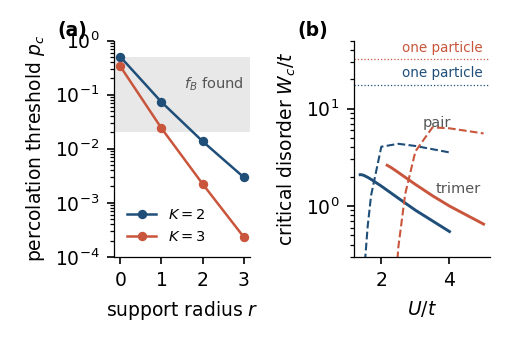
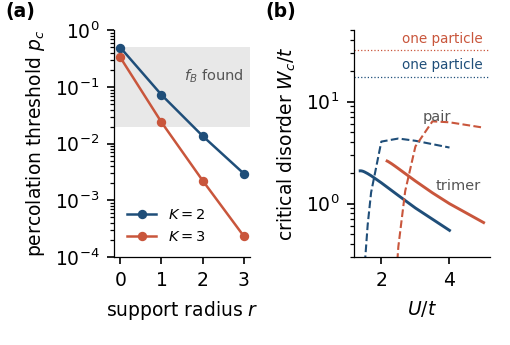
paper: fig4 labels; conclusions wording

diff --git a/paper/fig4.py b/paper/fig4.py
@@ -18,7 +18,7 @@ ax.set_yscale("log"); ax.set_xlabel("support radius $r$"); ax.set_ylabel("percol
 ax.set_xticks([0, 1, 2, 3]); ax.set_ylim(1e-4, 1)
 ax.legend(frameon=False, fontsize=7, loc="lower left")
 for s in ("top", "right"): ax.spines[s].set_visible(False)
-ax.text(-0.42, 1.02, "(a)", transform=ax.transAxes, fontsize=9, fontweight="bold")
+fig.text(0.01, 0.95, "(a)", fontsize=9, fontweight="bold")
 # (b) critical disorder of the composites vs U
 loc = json.load(open("../emergent/localization.json"))
 ax = axes[1]
@@ -34,5 +34,5 @@ ax.set_ylim(0.3, 50)
 ax.text(2.6, 21, "one particle", fontsize=6.5, color=B); ax.text(2.6, 38, "one particle", fontsize=6.5, color=R)
 ax.text(3.2, 6.5, "pair", fontsize=7, color="#555555"); ax.text(3.6, 1.35, "trimer", fontsize=7, color="#555555")
 for s in ("top", "right"): ax.spines[s].set_visible(False)
-ax.text(-0.42, 1.02, "(b)", transform=ax.transAxes, fontsize=9, fontweight="bold")
+fig.text(0.52, 0.95, "(b)", fontsize=9, fontweight="bold")
 fig.tight_layout(w_pad=1.2); fig.savefig("fig4.pdf"); fig.savefig("fig4.png", dpi=150)

diff --git a/paper/main.tex b/paper/main.tex
@@ -671,8 +671,8 @@ above its uniform threshold (dashed), single particle (dotted).}
 \section{Conclusions}
 \label{sec:conclusions}
 A pairwise Hamiltonian on a sparse random graph produces a bound triple
-with no bound pair: an emergent hyperedge without faces, detectable by a
-three-point statistic and invisible to every two-point one. The mechanism
+with no bound pair: an emergent hyperedge without faces, carried by a
+three-point statistic that no two-point statistic contains. The mechanism
 is the band-edge Borromean binding of Mattis and Rudin~\cite{mattis1984}
 placed on the graphs of network science, and what those graphs add is
 that they are expanders: a composite on them has two thresholds, and
